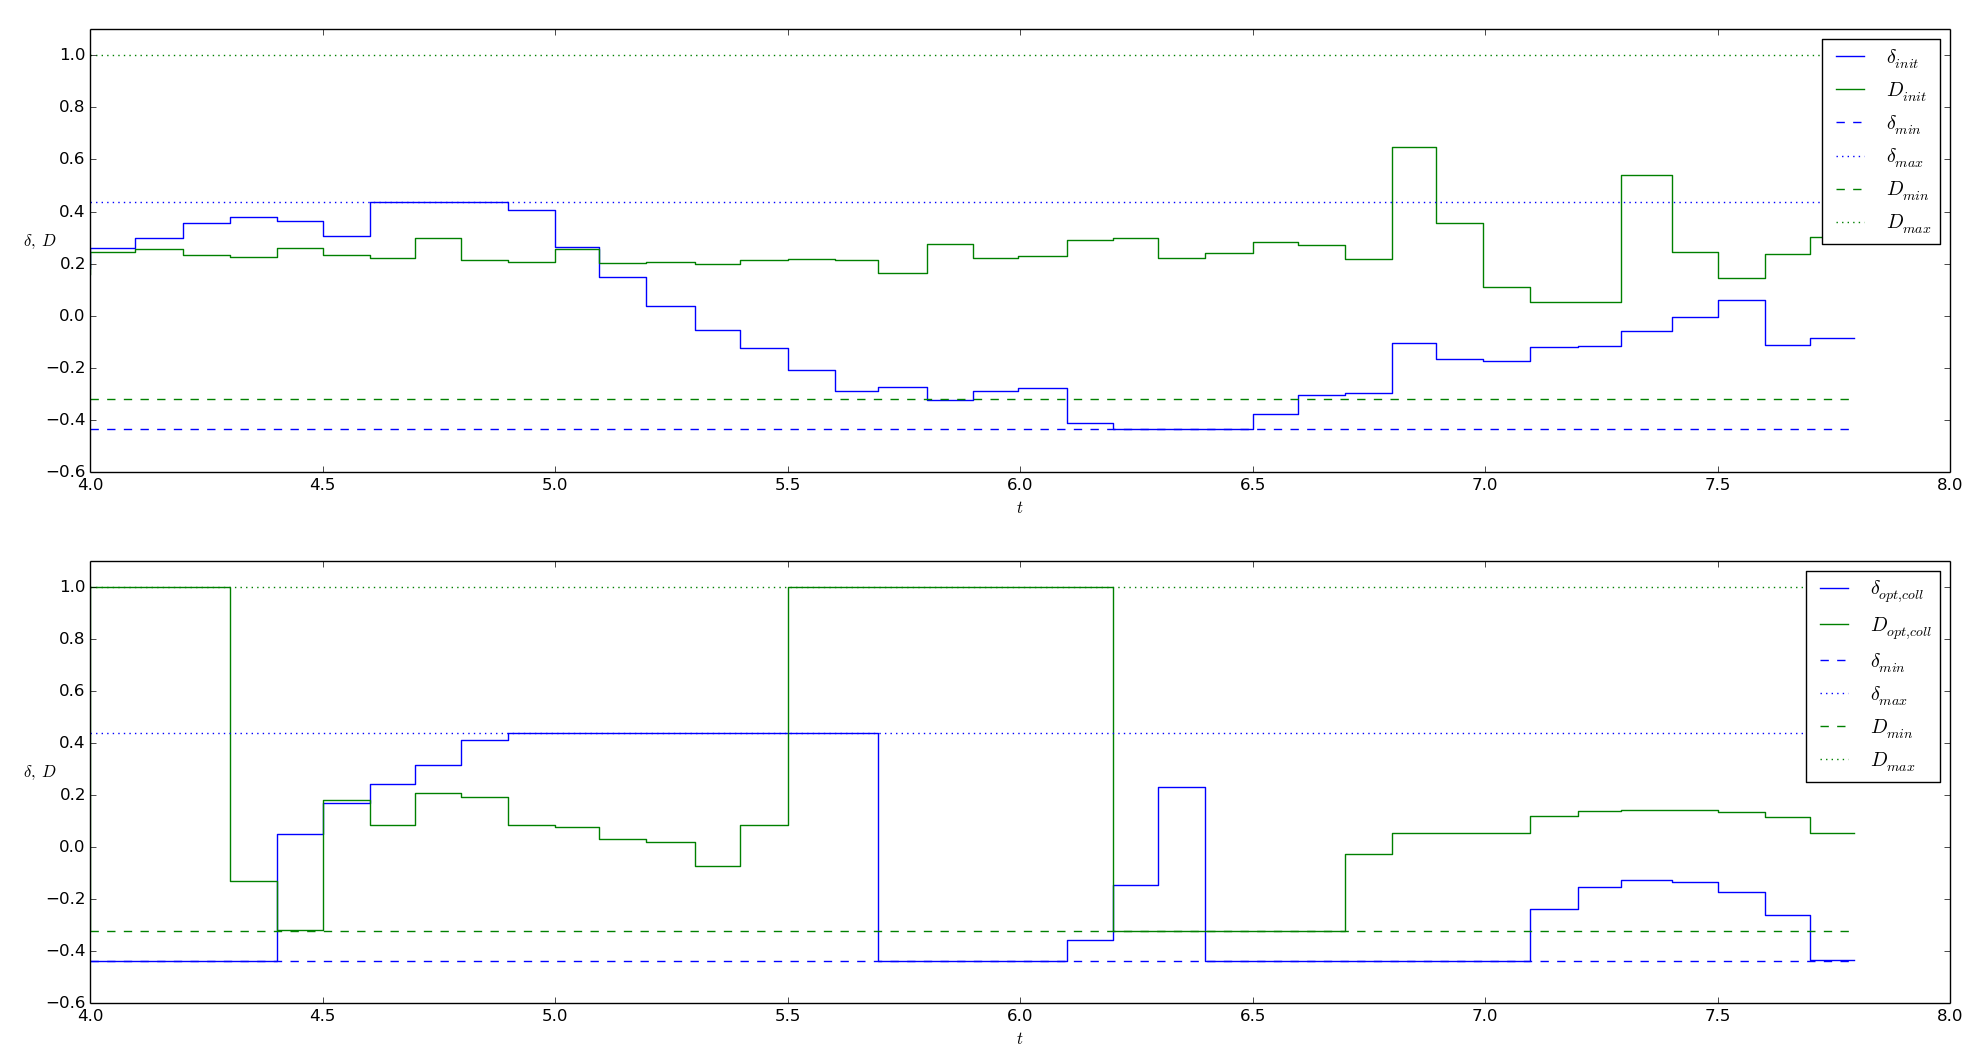
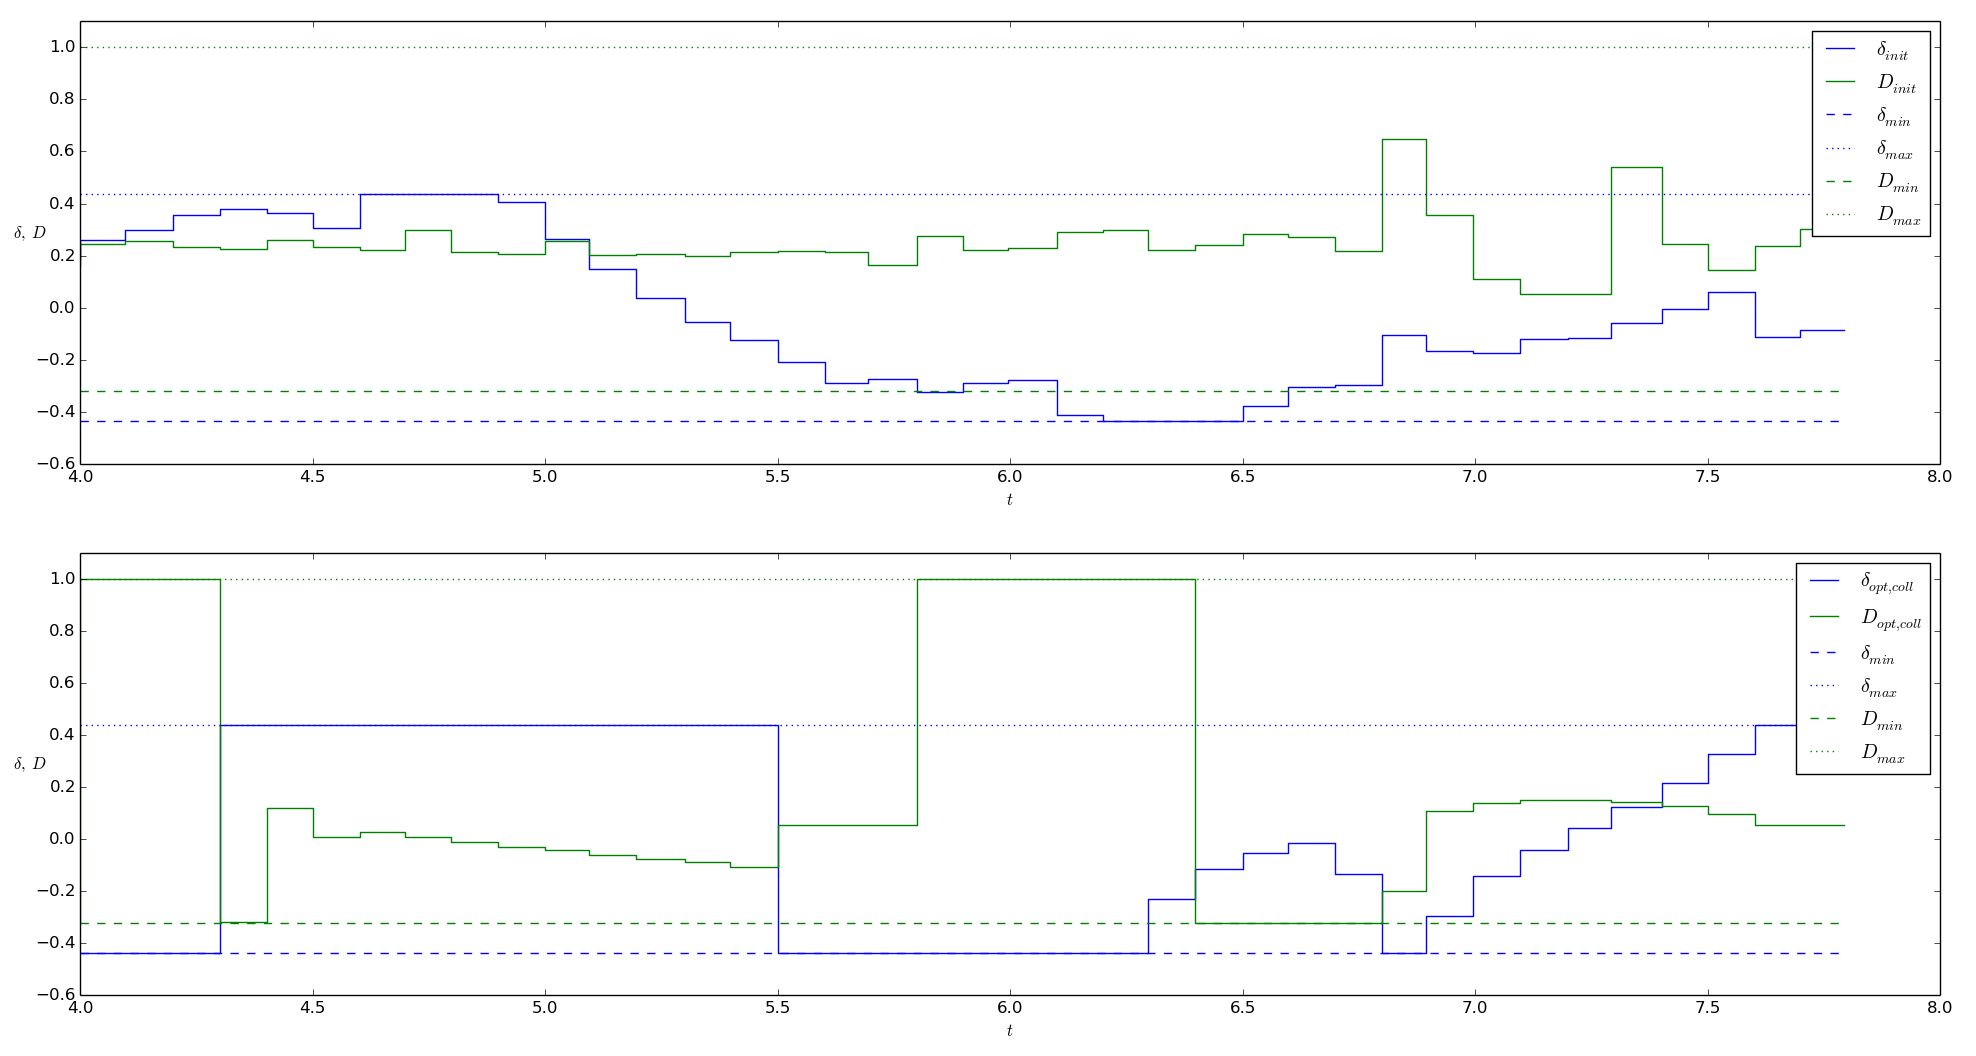
added more doe info to samples

diff --git a/doc/samples.rst b/doc/samples.rst
@@ -26,7 +26,7 @@ The following sample applications give hands-on impressions on how to use casiop
 Parameter estimation for a Lotka-Volterra predator-prey-model
 -------------------------------------------------------------
 
-The aim of the application `lotka_volterra.py <https://github.com/adbuerger/casiopeia/blob/master/examples/lotka_volterra_pe.py>`_ is to estimate the unknown parameters of a Lotka-Volterra predator-prey-model for experimentally received measurement data and given standard deviations for the measurements [#f1]_. The predator-prey-model is an ODE of the form :math:`\dot{x} = f(x,p)`, given by
+The aim of the application `lotka_volterra_pe.py <https://github.com/adbuerger/casiopeia/blob/master/examples/lotka_volterra_pe.py>`_ is to estimate the unknown parameters of a Lotka-Volterra predator-prey-model for experimentally received measurement data and given standard deviations for the measurements [#f1]_. The predator-prey-model is an ODE of the form :math:`\dot{x} = f(x,p)`, given by
 
 .. math::
 
@@ -65,7 +65,7 @@ The results for the system simulation using the estimated parameters in comparis
 Parameter estimation for a pendulum model
 -----------------------------------------
 
-The aim of the application `pendulum.py <https://github.com/adbuerger/casiopeia/blob/master/examples/pendulum_pe.py>`_ is to estimate the spring constant :math:`k` of a pendulum model for experimentally received measurement data [#f2]_. The pendulum model is an ODE of the form :math:`\dot{x} = f(x,u,p)`, given by
+The aim of the application `pendulum_pe.py <https://github.com/adbuerger/casiopeia/blob/master/examples/pendulum_pe.py>`_ is to estimate the spring constant :math:`k` of a pendulum model for experimentally received measurement data [#f2]_. The pendulum model is an ODE of the form :math:`\dot{x} = f(x,u,p)`, given by
 
 .. math::
 
@@ -165,15 +165,29 @@ This intends that the estimation results for the parameters  :math:`\hat{C_{\tex
 Optimum experimental design for a model race car
 ------------------------------------------------
 
-The aim of the application `2d_vehicle_doe.py <https://github.com/adbuerger/casiopeia/blob/master/examples/2d_vehicle_doe.py>`_ is to solve an optimum experimental design problem for the 2D race car model from `Parameter estimation for a model race car`_ to obtain control values that allow for a better estimation of the unknown parameters of the model.
+The aim of the application `2d_vehicle_doe_scaled.py <https://github.com/adbuerger/casiopeia/blob/master/examples/2d_vehicle_doe_scaled.py>`_ is to solve an optimum experimental design problem for the 2D race car model from `Parameter estimation for a model race car`_ to obtain control values that allow for a better estimation of the unknown parameters of the model.
+
+Initial setup
+~~~~~~~~~~~~~
 
 For this application, we assume that we are not bound to the previous race track to obtain measurements for the race car, but can drive the car on a rectangular mat of the racetrack's material. The controls are bounded by the maximum and minimum values of the controls measurements from `Parameter estimation for a model race car`_, as well as the states are bounded by their corresponding maximum and minimum values of the states measurements. The bounds are introduced to prevent the optimizer from creating unrealistic scenarios that could e. g. cause the race car to fall over when taking too sharp turns, which is not explicitly considered within the model.
 
-The estimation results :math:`\hat{p}` from `Parameter estimation for a model race car`_ are use as a "guess" for the parameter values for the experimental design. The control values from the previous estimation are used as initial guesses for the optimized controls.
+The previous parameter estimation results :math:`\hat{p}` from `Parameter estimation for a model race car`_ are used as a "guess" for the parameter values for the experimental design, and with this, to scale all parameter values within the optimization to 1.0 to prevent influences of the numerical values of the parameters on the optimization result. The control values from the previous estimation are used as initial guesses for the optimized controls. 
+
+The quality of the initial experimental setup in terms of estimated standard deviations of the unknown parameters is evaluated as follows
+
+.. math::
+
+    p_\text{I} = \begin{pmatrix} {C_{1, \text{I}}} \\ {C_{2, \text{I}}} \\ {C_{\text{m}_{1},\text{I}}}  \\ {C_{\text{m}_{2},\text{I}}} \\ {C_{\text{r}_{2},\text{I}}} \\ {C_{\text{r}_{0},\text{I}}} \end{pmatrix} = \begin{pmatrix} {1.0} \\ {1.0} \\ {1.0} \\ {1.0} \\ {1.0} \\ {1.0} \end{pmatrix} \pm \begin{pmatrix} {6.1591763006} \\ {0.318683714861} \\ {92.0037213296} \\ {62.6460661875} \\ {286.556042737} \\ {108.733245939} \end{pmatrix}
+
+which indicates that the experimental setup is rather inappropriate for a sufficient estimation.
+
+Optimized setup
+~~~~~~~~~~~~~~~
 
 .. note:: Running this optimization takes about 10 min on an Intel(R) Core(TM) i5-4570 3.20GHz CPU.
 
-The results of the optimization can be analyzed and visualized with the script `2d_vehicle_doe_validation.py <https://github.com/adbuerger/casiopeia/blob/master/examples/2d_vehicle_validation.py>`_. The figure below shows the optimized control values in comparison to the initially used control values, while the suffix `coll` indicates that the values were obtained using collocation discretization.
+We use the A-criterion as objective for the experimental design (see :ref:`doe`). The results of the optimization can be analyzed and visualized with the script `2d_vehicle_doe_scaled_validation.py <https://github.com/adbuerger/casiopeia/blob/master/examples/2d_vehicle_doe_scaled_validation.py>`_. The figure below shows the optimized control values in comparison to the initially used control values, while the suffix `coll` indicates that the values were obtained using collocation discretization.
 
 ..  figure:: rc_doe_controls.png
     :scale: 70%
@@ -188,6 +202,23 @@ The figure below shows a comparison of the simulated states values for both init
     :align: center
 
     Figure: Comparison of the simulated states values for initial and optimized controls
+
+The quality of the optimized experimental setup in terms of estimated standard deviations of the unknown parameters is evaluated as follows
+
+.. math::
+
+    p_\text{O} = \begin{pmatrix} {C_{1, \text{O}}} \\ {C_{2, \text{O}}} \\ {C_{\text{m}_{1},\text{O}}}  \\ {C_{\text{m}_{2},\text{O}}} \\ {C_{\text{r}_{2},\text{O}}} \\ {C_{\text{r}_{0},\text{O}}} \end{pmatrix} = \begin{pmatrix} {1.0} \\ {1.0} \\ {1.0} \\ {1.0} \\ {1.0} \\ {1.0} \end{pmatrix} \pm \begin{pmatrix} {1.93054150676} \\ {0.278656552587} \\ {1.96689422255} \\ {1.51815346784} \\ {3.42713773836} \\ {1.88475684297} \end{pmatrix}
+
+which indicates that the optimized setup is more appropriate for parameter estimation compared to the initial experimental design. Though, the estimated standard deviations are still relatively big in comparison to the scaled parameter values, so it would probably make sense to further refine the experimental design. 
+
+Further steps
+~~~~~~~~~~~~~
+
+Possible strategies for further refinement of the experimental design could be to increase the duration of the experiment so that more measurements can be taken, or to loosen control and state bounds to allow for greater system excitation.
+
+In case these strategies are not applicable (physical limitations, safety concerns or alike), designing multiple experiments within one optimization problem can be a useful approach, so that several independent experiments can focus on different aspects of the system, which allows for a structured gathering of additional information about the system that can later be used within one parameter estimation.
+
+Both planning of such experiments and using independent measurements data sets within one parameter estimation can be realized with casiopeia as well, see :ref:`multidoe` and :ref:`multipe`.
 
 .. rubric:: References
 

diff --git a/doc/doe.rst b/doc/doe.rst
@@ -15,6 +15,7 @@
 .. You should have received a copy of the GNU Lesser General Public License
 .. along with casiopeia. If not, see <http://www.gnu.org/licenses/>.
 
+.. _doe:
 
 Optimum experimental design
 ===========================
@@ -26,6 +27,8 @@ Optimum experimental design of single experiments
 
 .. autoclass:: casiopeia.doe.DoE
     :members:
+
+.. _multidoe:
 
 Optimum experimental design of multiple experiments
 ---------------------------------------------------

diff --git a/doc/pe.rst b/doc/pe.rst
@@ -28,6 +28,8 @@ Parameter estimation from single experiments
     :members:
     :inherited-members:
 
+.. _multipe:
+
 Parameter estimation from multiple experiments
 ----------------------------------------------
 
